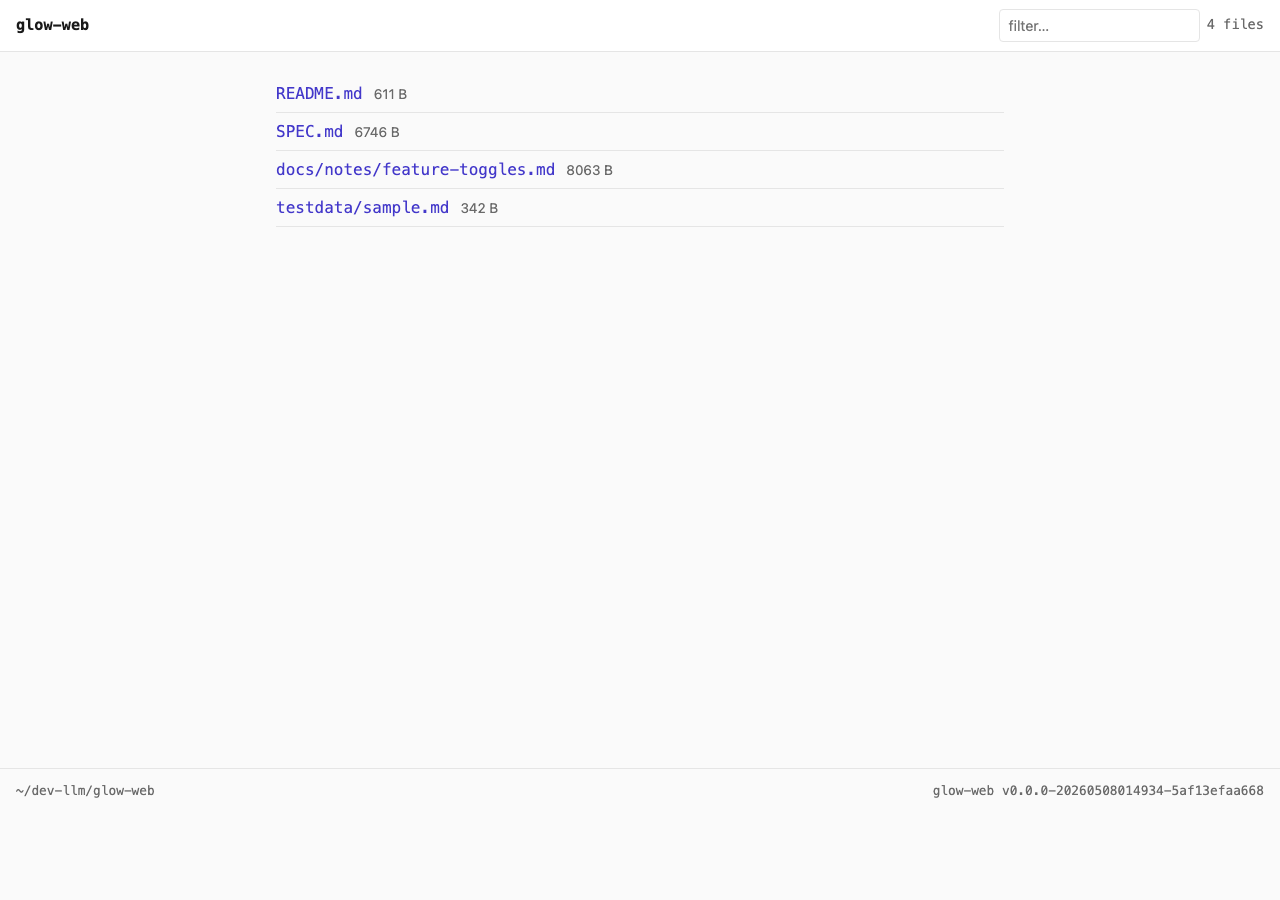
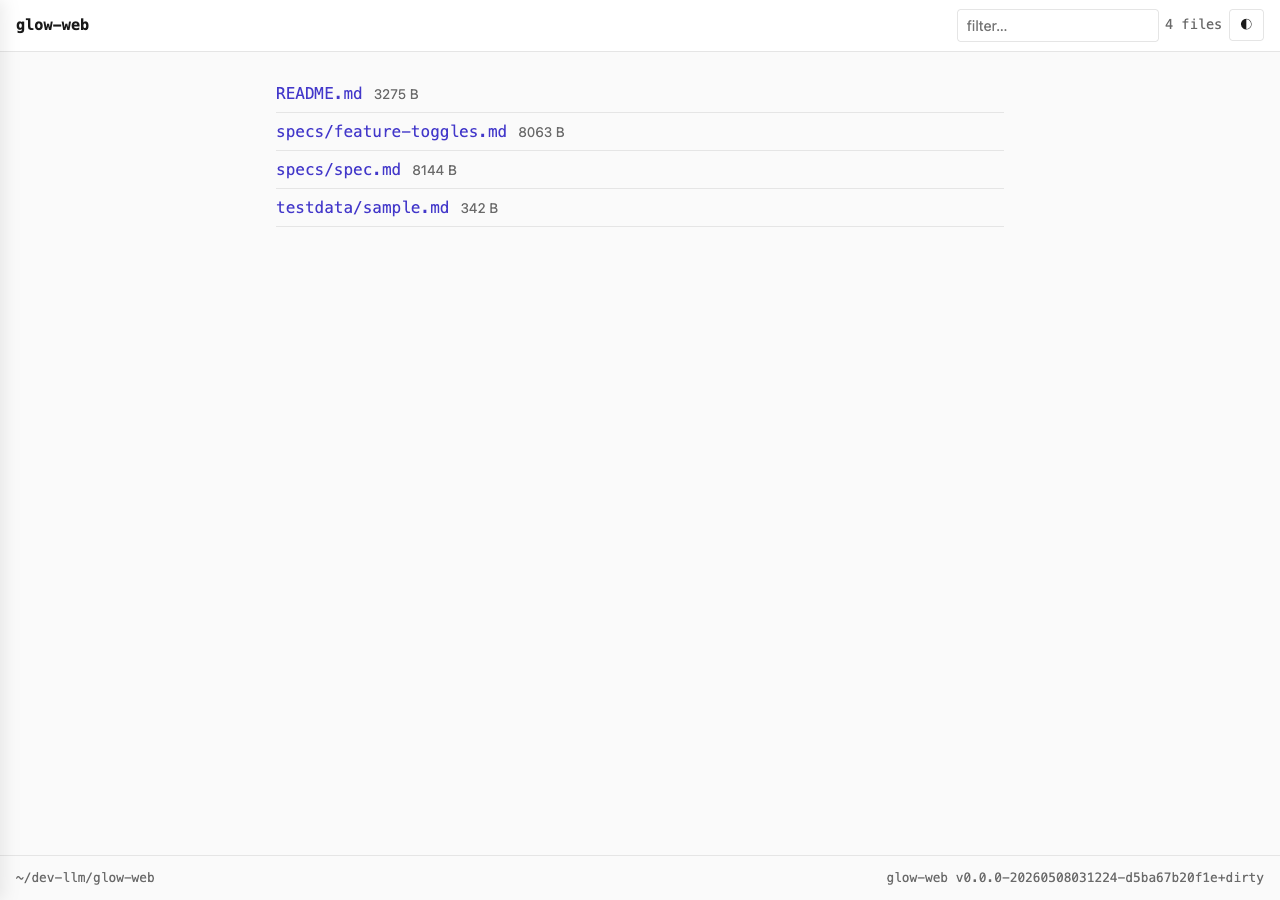
title: flip to "<doc> · <prefix>" with auto port + Makefile
Two related changes:

1. Flip the title format from "<prefix>: <doc>" to "<doc> · <prefix>"
   so the doc name gets the front-of-tab visual priority — matters
   most when browsers truncate narrow tabs from the right. Default
   --title-prefix is now "auto", which expands to "glow-web:<port>"
   using the actually-bound listener port (handles --addr :0). The
   prefix still appears in the title, so it's findable in tab-search
   (Ctrl-Shift-A on Chrome / Firefox) without crowding the front. Set
   --title-prefix="" to disable, or pass any literal string verbatim.

2. Add a Makefile + scripts/screenshots.py. `make` with no target
   runs the commit gate (fmt-check + vet + test). `make build` puts
   a binary in ./bin; `make run` serves the project root.
   `make screenshots` re-captures the five README screenshots via
   playwright + system chromium (so no playwright-managed browser
   download), priming localStorage with the per-project KEY_PREFIX
   to get the sidebar-open and dark-theme variants. README's Dev
   tasks section documents the surface.

The screenshots are regenerated under the new title format (visible
in the toggle button switching from ◐ to ☾ between auto and dark).

diff --git a/internal/web/web.go b/internal/web/web.go
@@ -47,7 +47,8 @@ type Server struct {
 	DefaultMarkup  bool         // when true, default view is hybrid markup; ?view=rendered overrides
 	CommandPalette bool         // when true, ⌘K / Ctrl-K opens a fuzzy file palette on every page
 	Theme          string       // "auto" (default), "light", or "dark"; user toggle in UI overrides
-	TitlePrefix    string       // prepended to <title>; empty disables. Default "glow-web".
+	TitlePrefix    string       // appended to <title>; "auto" = "glow-web:<port>", "" disables, else literal
+	Addr           string       // bound address (e.g. "127.0.0.1:8080"); set by CLI and updated after net.Listen
 }
 
 // NewServer constructs a Server, autodetecting Mode from path's stat. walkOpts
@@ -88,13 +89,16 @@ func (s *Server) Handler() http.Handler {
 //
 // We bind first then log so the URLs reflect the actual port (handles `:0`)
 // and a bind failure surfaces before the misleading "serving …" notice.
+// The Server's Addr field is updated to the bound address so any
+// "auto"-style title prefix can interpolate the real port.
 func (s *Server) Serve(addr string) error {
 	ln, err := net.Listen("tcp", addr)
 	if err != nil {
 		return err
 	}
+	s.Addr = ln.Addr().String()
 	fmt.Fprintf(os.Stderr, "glow-web %s — serving %s\n", version.String(), s.Root)
-	for _, line := range s.listenerLines(ln.Addr().String()) {
+	for _, line := range s.listenerLines(s.Addr) {
 		fmt.Fprintln(os.Stderr, line)
 	}
 	return http.Serve(ln, s.Handler())
@@ -387,7 +391,7 @@ func (s *Server) serveOne(w http.ResponseWriter, r *http.Request, abs, displayNa
 	data.FilesURL = s.utilityURL("/_/files")
 	data.ServerTheme = s.serverTheme()
 	data.KeyPrefix = s.keyPrefix()
-	data.TitlePrefix = s.TitlePrefix
+	data.TitlePrefix = s.resolvedTitlePrefix()
 	w.Header().Set("Content-Type", "text/html; charset=utf-8")
 	if err := pageTmpl.ExecuteTemplate(w, "view.html.tmpl", data); err != nil {
 		fmt.Fprintf(os.Stderr, "glow-web: view template: %v\n", err)
@@ -410,7 +414,7 @@ func (s *Server) serveEdit(w http.ResponseWriter, src []byte, displayName, rel s
 		Palette:     s.CommandPalette,
 		ServerTheme: s.serverTheme(),
 		KeyPrefix:   s.keyPrefix(),
-		TitlePrefix: s.TitlePrefix,
+		TitlePrefix: s.resolvedTitlePrefix(),
 		Version:     version.String(),
 	}
 	if s.Mode == ModeDir {
@@ -441,6 +445,38 @@ func (s *Server) serverTheme() string {
 	default:
 		return "auto"
 	}
+}
+
+// resolvedTitlePrefix returns the literal string to render after the doc
+// title. The sentinel "auto" expands to "glow-web" plus the bound port if
+// known (so two instances on the same host but different ports get
+// distinguishable tabs). Empty disables the suffix entirely; any other
+// value passes through verbatim.
+func (s *Server) resolvedTitlePrefix() string {
+	if s.TitlePrefix == "" {
+		return ""
+	}
+	if s.TitlePrefix != "auto" {
+		return s.TitlePrefix
+	}
+	port := s.boundPort()
+	if port == "" {
+		return "glow-web"
+	}
+	return "glow-web:" + port
+}
+
+// boundPort extracts the port from s.Addr. Returns "" when Addr isn't set
+// (e.g. tests using Handler() without Serve()).
+func (s *Server) boundPort() string {
+	if s.Addr == "" {
+		return ""
+	}
+	_, port, err := net.SplitHostPort(s.Addr)
+	if err != nil {
+		return ""
+	}
+	return port
 }
 
 // keyPrefix is the localStorage namespace for this server's UI state. Two
@@ -609,7 +645,7 @@ func (s *Server) serveIndex(w http.ResponseWriter, r *http.Request) {
 		Palette:     s.CommandPalette,
 		ServerTheme: s.serverTheme(),
 		KeyPrefix:   s.keyPrefix(),
-		TitlePrefix: s.TitlePrefix,
+		TitlePrefix: s.resolvedTitlePrefix(),
 		Version:     version.String(),
 	}
 	if err := pageTmpl.ExecuteTemplate(w, "index.html.tmpl", data); err != nil {

diff --git a/internal/web/web_test.go b/internal/web/web_test.go
@@ -191,22 +191,20 @@ func TestDirMode_PathTraversalRejected(t *testing.T) {
 
 // --- title prefix ---
 
-func TestTitlePrefix_DefaultPrependsGlowWeb(t *testing.T) {
+func TestTitlePrefix_LiteralValueAppendsAfterDoc(t *testing.T) {
 	_, s := dirFixture(t) // dirFixture sets TitlePrefix = "glow-web"
 	rec := serve(s.Handler(), "GET", "/alpha.md", "")
-	if !strings.Contains(rec.Body.String(), `<title>glow-web: alpha.md</title>`) {
-		t.Errorf("default prefix not applied: %s", rec.Body.String())
+	if !strings.Contains(rec.Body.String(), `<title>alpha.md · glow-web</title>`) {
+		t.Errorf("literal prefix not applied: %s", rec.Body.String())
 	}
 }
 
-func TestTitlePrefix_IndexAlsoPrefixed(t *testing.T) {
+func TestTitlePrefix_IndexAlsoSuffixed(t *testing.T) {
 	dir, s := dirFixture(t)
 	_ = dir
 	rec := serve(s.Handler(), "GET", "/", "")
-	body := rec.Body.String()
-	// Index Title is the project basename (the temp dir's basename).
-	if !strings.Contains(body, `<title>glow-web: `) {
-		t.Errorf("index title missing prefix: %s", body)
+	if !strings.Contains(rec.Body.String(), ` · glow-web</title>`) {
+		t.Errorf("index title missing prefix suffix: %s", rec.Body.String())
 	}
 }
 
@@ -219,12 +217,32 @@ func TestTitlePrefix_EmptyDisables(t *testing.T) {
 	}
 }
 
-func TestTitlePrefix_CustomWithPort(t *testing.T) {
+func TestTitlePrefix_AutoExpandsWithPort(t *testing.T) {
 	_, s := dirFixture(t)
-	s.TitlePrefix = "glow-web:8080"
+	s.TitlePrefix = "auto"
+	s.Addr = "127.0.0.1:18099"
 	rec := serve(s.Handler(), "GET", "/alpha.md", "")
-	if !strings.Contains(rec.Body.String(), `<title>glow-web:8080: alpha.md</title>`) {
-		t.Errorf("custom prefix with port not applied: %s", rec.Body.String())
+	if !strings.Contains(rec.Body.String(), `<title>alpha.md · glow-web:18099</title>`) {
+		t.Errorf("auto + Addr should produce 'glow-web:18099': %s", rec.Body.String())
+	}
+}
+
+func TestTitlePrefix_AutoNoAddrJustGlowWeb(t *testing.T) {
+	_, s := dirFixture(t)
+	s.TitlePrefix = "auto"
+	s.Addr = ""
+	rec := serve(s.Handler(), "GET", "/alpha.md", "")
+	if !strings.Contains(rec.Body.String(), `<title>alpha.md · glow-web</title>`) {
+		t.Errorf("auto without Addr should fall back to bare 'glow-web': %s", rec.Body.String())
+	}
+}
+
+func TestTitlePrefix_CustomLiteral(t *testing.T) {
+	_, s := dirFixture(t)
+	s.TitlePrefix = "docs-of-truth"
+	rec := serve(s.Handler(), "GET", "/alpha.md", "")
+	if !strings.Contains(rec.Body.String(), `<title>alpha.md · docs-of-truth</title>`) {
+		t.Errorf("custom literal not applied verbatim: %s", rec.Body.String())
 	}
 }
 
@@ -639,7 +657,7 @@ func TestEdit_PageRenders(t *testing.T) {
 	}
 	body := rec.Body.String()
 	for _, want := range []string{
-		`<title>glow-web: alpha.md (edit)</title>`,
+		`<title>alpha.md (edit) · glow-web</title>`,
 		`<textarea id="src"`,
 		`# Alpha`, // source filled in
 		`const RENDER_URL = "/_/render"`,

diff --git a/scripts/screenshots.py b/scripts/screenshots.py
@@ -1,0 +1,52 @@
+"""Re-capture the README screenshots against a running glow-web.
+
+The Makefile starts a glow-web server on localhost, then invokes this script.
+We use playwright with the system chromium (no playwright-managed browser
+download), prime localStorage so the sidebar shot has the panel open, and
+write five PNGs into $SHOT_DIR.
+"""
+
+import asyncio
+import os
+import sys
+from playwright.async_api import async_playwright
+
+PORT = os.environ.get("PORT", "18099")
+SHOT_DIR = os.environ.get("SHOT_DIR", "docs/screenshots")
+CHROMIUM = os.environ.get("CHROMIUM", "/opt/homebrew/bin/chromium")
+BASE = f"http://127.0.0.1:{PORT}"
+
+
+async def shot(page, url, path):
+    await page.goto(url)
+    await page.wait_for_load_state("networkidle")
+    await page.screenshot(path=path)
+    print(f"wrote {path}", file=sys.stderr)
+
+
+async def main():
+    os.makedirs(SHOT_DIR, exist_ok=True)
+    async with async_playwright() as p:
+        browser = await p.chromium.launch(executable_path=CHROMIUM)
+        ctx = await browser.new_context(viewport={"width": 1280, "height": 900})
+        page = await ctx.new_page()
+
+        await shot(page, f"{BASE}/", f"{SHOT_DIR}/index.png")
+        await shot(page, f"{BASE}/specs/spec.md", f"{SHOT_DIR}/view.png")
+        await shot(page, f"{BASE}/specs/spec.md?view=markup", f"{SHOT_DIR}/markup.png")
+
+        # KEY_PREFIX is a script-global on every page (per-project hash); read
+        # it back so we can prime localStorage with the right namespaced keys.
+        prefix = await page.evaluate("KEY_PREFIX")
+
+        await page.evaluate(f"localStorage.setItem('{prefix}palette-open', '1')")
+        await shot(page, f"{BASE}/specs/spec.md", f"{SHOT_DIR}/sidebar.png")
+
+        await page.evaluate(f"localStorage.setItem('{prefix}theme', 'dark')")
+        await page.evaluate(f"localStorage.removeItem('{prefix}palette-open')")
+        await shot(page, f"{BASE}/specs/spec.md", f"{SHOT_DIR}/dark.png")
+
+        await browser.close()
+
+
+asyncio.run(main())

diff --git a/cmd/glow-web/main.go b/cmd/glow-web/main.go
@@ -68,7 +68,7 @@ func runWeb(args []string) {
 	markupDefault := fs.Bool("markup", false, "default to hybrid markup view (toggle with ?view=rendered)")
 	palette := fs.Bool("palette", true, "enable ⌘K / Ctrl-K command palette (use --palette=false to disable)")
 	theme := fs.String("theme", "auto", "default theme: auto | light | dark (browser toggle overrides)")
-	titlePrefix := fs.String("title-prefix", "glow-web", `prepended to <title>; empty disables. Add port to distinguish instances, e.g. "glow-web:8080"`)
+	titlePrefix := fs.String("title-prefix", "auto", `<title> rendered as "<doc> · <prefix>". "auto" expands to "glow-web:<port>"; "" disables; any other value passes through verbatim.`)
 	parseIntermixed(fs, args)
 	if fs.NArg() < 1 {
 		fmt.Fprintln(os.Stderr, "glow-web web: missing PATH (file or directory)")
@@ -96,6 +96,7 @@ func runWeb(args []string) {
 	s.CommandPalette = *palette
 	s.Theme = *theme
 	s.TitlePrefix = *titlePrefix
+	s.Addr = *addr
 	if err := s.Serve(*addr); err != nil {
 		die(err)
 	}

diff --git a/README.md b/README.md
@@ -39,7 +39,21 @@ go install github.com/mcint/glow-web/cmd/glow-web@latest
 
 # Or build from a checkout
 git clone https://github.com/mcint/glow-web && cd glow-web
-go build -o glow-web ./cmd/glow-web
+make build      # → ./bin/glow-web   (or `go build -o glow-web ./cmd/glow-web`)
+```
+
+## Dev tasks
+
+A `Makefile` exposes the common loop. `make` with no target runs the
+commit gate (`fmt-check + vet + test`):
+
+```sh
+make help          # show all targets
+make build         # → ./bin/glow-web
+make test          # go test ./...
+make check         # fmt-check + vet + test (the commit gate)
+make run           # build + serve project root on 127.0.0.1:8080
+make screenshots   # re-capture README screenshots (needs playwright + chromium)
 ```
 
 ## Quick start
